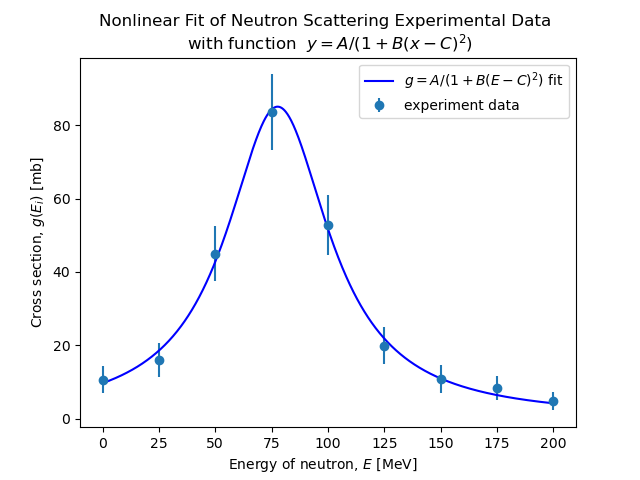
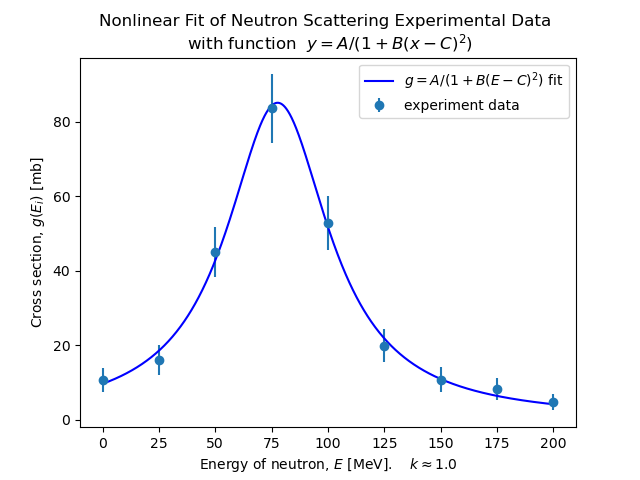
Assignment 3 experiment w a b c d

diff --git a/03/03_03-04-05_experinent_w_ABCD.py b/03/03_03-04-05_experinent_w_ABCD.py
@@ -1,0 +1,101 @@
+""" Example of curve fitting using scipy.optimize package
+    Performs chi squared fit of data insample.txt file to qudratic function
+    
+    Lev Kaplan 2019"""
+
+# Nonlinfit.py: Langrange interpolation tabulated data
+    
+from pylab import *
+from scipy.optimize import curve_fit   # chi squared fitting
+
+def func_poly_quad(x,a,b,c):   # define functional form
+    return a + b*x + c*x*x
+
+def func_abc(x,a,b,c):   # define functional form
+    return a/(1+b*(x-c)**2)
+
+def func_abcd(x,a,b,c,d):   # define functional form
+    return a/(d+b*(x-c)**2)
+    # return a + b*x + c*x*x
+
+NMAX = 1000  # max number of input points
+
+xin = zeros(NMAX)  # each is array of length NMAX, all elements set to zero
+yin = zeros(NMAX)
+sig = zeros(NMAX)
+
+inputfile = open("lagrange.dat","r")  # read in the input x,y values
+r = inputfile.readlines()  # read the whole file into list (one item per line)
+inputfile.close()
+        # input has the form: x0 y0 sig0
+        #                     x1 y1 sig1
+        #                     ...
+# print(r)
+
+m = 0
+k = 0.4624  # manually adjusted
+for line in r:
+    print(line)
+    s = line.split() # split line and split into list of items(assume items separated by spaces)
+    xin[m] = s[0] # first number in each line is the x value
+    yin[m] = s[1]
+    sig[m] = k*sqrt(yin[m]) # was sig[m] = s[2]
+    m+=1         # m is total number of input data points
+                 # will be stored in xin[0]..xin[n-1],yin[0]..yin[n-1]
+
+init_abc = [1,1,75]
+init_abcd = [1,1,1,1]
+
+popt_poly,pcov_poly = curve_fit(func_poly_quad, xin[0:m], yin[0:m], p0=init_abc, sigma=sig[0:m])
+
+popt_abc,pcov_abc = curve_fit(func_abc, xin[0:m], yin[0:m], p0=init_abc, sigma=sig[0:m])
+
+popt,pcov = curve_fit(func_abcd, xin[0:m], yin[0:m], p0=init_abcd, sigma=sig[0:m])
+
+print("best fit parameters a,b,c =", popt_abc)
+print("best fit parameters a,b,c,d =", popt)
+
+print("covariance matrix for the parameters a,b,c =\n",pcov_abc)
+print("uncertainties in parameters =",sqrt(abs(diag(pcov_abc))))
+
+print("covariance matrix for the parameters a,b,c,d =\n",pcov)
+print("uncertainties in parameters =",sqrt(abs(diag(pcov))))
+
+xvalues = linspace(0,200,1000)
+yvalues_poly = func_poly_quad(xvalues, popt_poly[0], popt_poly[1], popt_poly[2])
+yvalues_abc = func_abc(xvalues, popt_abc[0], popt_abc[1], popt_abc[2])
+yvalues = func_abcd(xvalues, popt[0], popt[1], popt[2], popt[3])
+
+chi2_poly=0
+yfit_poly = func_poly_quad(xin, popt_poly[0], popt_poly[1], popt_poly[2])
+for i in range(0, m):
+    sig2 = sig[i] * sig[i]
+    chi2_poly += ((yin[i] - yfit_poly[i])**2)/sig2
+
+chi2_abc=0
+yfit_abc = func_abc(xin, popt_abc[0], popt_abc[1], popt_abc[2])
+for i in range(0, m):
+    sig2 = sig[i] * sig[i]
+    chi2_abc += ((yin[i] - yfit_abc[i])**2)/sig2
+
+chi2=0
+yfit = func_abcd(xin, popt[0], popt[1], popt[2], popt[3])
+for i in range(0, m):
+    sig2 = sig[i] * sig[i]
+    chi2 += ((yin[i] - yfit[i])**2)/sig2
+
+print('quadratic polynomial fit chi^2 = ', chi2_poly)
+print('a,b,c fit chi^2 = ', chi2_abc)
+print('a,b,c,d fit chi^2 = ', chi2)
+
+errorbar(xin[0:m],yin[0:m],sig[0:m],fmt="o",label="experiment data")
+plot(xvalues,yvalues,"b-",label=r'$ g = A / (D + B {(E-C)}^2 )$'+'\n A(0)=B(0)=C(0)=D(0)=1', alpha=0.5)
+plot(xvalues,yvalues_abc,"g--",label=r'$ g = A / (1 + B {(E-C)}^2 )$', alpha=0.5)
+plot(xvalues,yvalues_poly,"y-",label=r'$ g = A + B x + C x^2 $')
+
+title('Nonlinear Fit of Neutron Scattering Experimental Data \n (different functions)')
+ylabel( 'Cross section, '+ r'$g(E_i)$ [mb]')
+xlabel( 'Energy of neutron, $E$ [MeV].   ' + r' Best $\chi^2 \approx $' + str(round(chi2,2)) + r', best $k \approx 0.4624 $')
+legend(loc="upper right")
+savefig('03_03-04-05_experiment_w_ABCD.png')
+show()

diff --git a/03/03_04.py b/03/03_04.py
@@ -27,7 +27,7 @@ inputfile.close()
 # print(r)
 
 m = 0
-k = 1.13 # manually adjusted
+k = 0.4624 # manually adjusted
 for line in r:
     print(line)
     s = line.split() # split line and split into list of items(assume items separated by spaces)
@@ -62,7 +62,7 @@ errorbar(xin[0:m],yin[0:m],sig[0:m],fmt="o",label="experiment data")
 plot(xvalues,yvalues,"b-",label=r'$ g = A / (1 + B {(E-C)}^2 )$ fit')
 title('Nonlinear Fit of Neutron Scattering Experimental Data \n'+r' with function  $y = A / (1 + B {(x-C)}^2 )$')
 ylabel( 'Cross section, '+ r'$g(E_i)$ [mb]')
-xlabel( 'Energy of neutron, $E$ [MeV]   ' + r' $\chi^2 \approx $' + str(round(chi2,2)))
+xlabel( 'Energy of neutron, $E$ [MeV].   ' + r' $\chi^2 \approx $' + str(round(chi2,2)) + r', $k \approx $' + str(round(k,2)) )
 legend(loc="upper right")
 savefig('03_04.png')
 show()

diff --git a/03/03_05.py b/03/03_05.py
@@ -27,7 +27,7 @@ inputfile.close()
 # print(r)
 
 m = 0
-k = 1.13  # manually adjusted
+k = 1.0  # manually adjusted
 for line in r:
     print(line)
     s = line.split() # split line and split into list of items(assume items separated by spaces)
@@ -62,7 +62,7 @@ errorbar(xin[0:m],yin[0:m],sig[0:m],fmt="o",label="experiment data")
 plot(xvalues,yvalues,"b-",label=r'$ g = A / (D + B {(E-C)}^2 )$ fit')
 title('Nonlinear Fit of Neutron Scattering Experimental Data \n'+r' with function  $y = A / (D + B {(x-C)}^2 )$')
 ylabel( 'Cross section, '+ r'$g(E_i)$ [mb]')
-xlabel( 'Energy of neutron, $E$ [MeV]   ' + r' $\chi^2 \approx $' + str(round(chi2,2)))
+xlabel( 'Energy of neutron, $E$ [MeV].   ' + r' $\chi^2 \approx $' + str(round(chi2,2)) + r', $k \approx $' + str(round(k,1)) )
 legend(loc="upper right")
 savefig('03_05.png')
 show()

diff --git a/03/03_03.py b/03/03_03.py
@@ -27,7 +27,7 @@ inputfile.close()
 # print(r)
 
 m = 0
-k = 1.13 # manually adjusted
+k = 1.0 # manually adjusted
 for line in r:
     print(line)
     s = line.split() # split line and split into list of items(assume items separated by spaces)
@@ -54,7 +54,7 @@ errorbar(xin[0:m],yin[0:m],sig[0:m],fmt="o",label="experiment data")
 plot(xvalues,yvalues,"b-",label=r'$ g = A / (1 + B {(E-C)}^2 )$ fit')
 title('Nonlinear Fit of Neutron Scattering Experimental Data \n'+r' with function  $y = A / (1 + B {(x-C)}^2 )$')
 ylabel( 'Cross section, '+ r'$g(E_i)$ [mb]')
-xlabel( 'Energy of neutron, $E$ [MeV]   ')
+xlabel( 'Energy of neutron, $E$ [MeV].   ' + r' $k \approx $' + str(round(k,2)) )
 legend(loc="upper right")
 savefig('03_03.png')
 show()
